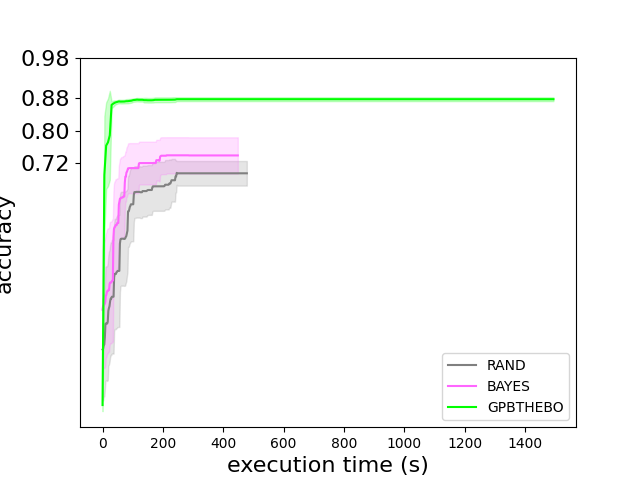
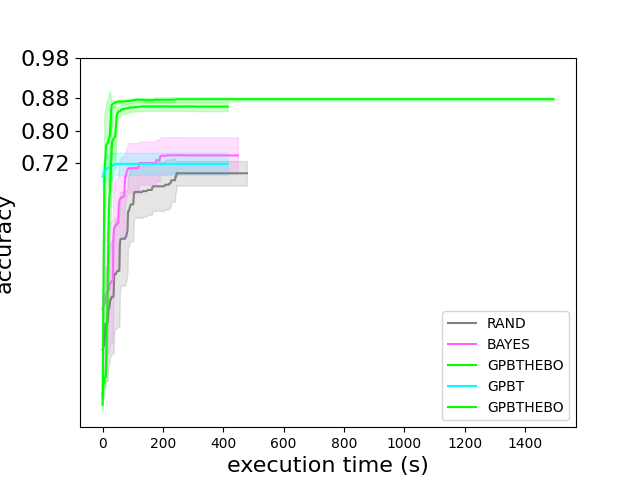
update analytics to process fast runs

Changed region(s): [[0.1562, 0.1875, 0.375, 0.8125], [0.6875, 0.6562, 0.875, 0.8125]]

diff --git a/analytics.py b/analytics.py
@@ -47,37 +47,50 @@ def getall(a):
     return (f, a[:, 1::2].std(1) / 2, g, a[:, 0::2].std(1) / 2)
 
 
-DEFAULT_PATH = "./results"
+def analyse_result_files(algo, model, num_iteration, filepath, val, N):
+    algo_results = []
+    for iteration in range(num_iteration):
+        filename = algo + "_" + model + "_" + str(iteration) + ".csv"
+        filename = os.path.join(filepath, filename)
+        logs = genfromtxt(filename, delimiter=",")
+        test_loss = logs[np.argsort(logs[:, -5], axis=-1, kind="stable")][:, -2:]
+        test_loss = maxof(test_loss[:, ::], N)
+        algo_results.append(test_loss)
+    [mean_test, std_test, mean_val, std_val] = getall(
+        np.concatenate(algo_results, axis=1)
+    )
+    if val:
+        mean, std = mean_val, std_val
+    else:
+        mean, std = mean_test, std_test
+    time = np.arange(0, N) * get_time(algo, (N == 80)) / N
+    label = algo
+    if N == 80:
+        label = algo + "_80"
+    plt.plot(time, mean, color=get_color(algo), label=label)
+    plt.fill_between(time, mean - std, mean + std, alpha=0.2, color=get_color(algo))
 
 
 def process(
-    dataset: str, algos=["RAND"], model="LeNet", num_iteration=10, val=False, N=250
+    dataset: str,
+    algos=["RAND"],
+    fast_algos=[],
+    model="LeNet",
+    num_iteration=10,
+    val=False,
 ):
-
     for algo in algos:
-        algo_results = []
-        for iteration in range(num_iteration):
-            filename = algo + "_" + model + "_" + str(iteration) + ".csv"
-            filename = os.path.join(DEFAULT_PATH, dataset, filename)
-            logs = genfromtxt(filename, delimiter=",")
-            test_loss = logs[np.argsort(logs[:, -5], axis=-1, kind="stable")][:, -2:]
-            test_loss = maxof(test_loss[:, ::], N)
-            algo_results.append(test_loss)
-        [mean_test, std_test, mean_val, std_val] = getall(
-            np.concatenate(algo_results, axis=1)
-        )
-        if val:
-            mean, std = mean_val, std_val
-        else:
-            mean, std = mean_test, std_test
-        time = np.arange(0, 250) * get_time(algo) / 250
-        plt.plot(time, mean, color=get_color(algo), label=algo)
-        plt.fill_between(time, mean - std, mean + std, alpha=0.2, color=get_color(algo))
+        path = os.path.join("./results", dataset)
+        analyse_result_files(algo, model, num_iteration, path, val, 250)
+    for algo in fast_algos:
+        path = os.path.join("./results", dataset, "FAST")
+        analyse_result_files(algo, model, num_iteration, path, val, 80)
+
     axes = plt.gca()
-    axes.set_ylabel("accuracy", fontsize=9)
-    axes.set_xlabel("execution time (s)", fontsize=9)
-    plt.xticks([0, 200, 400, 600, 800, 1000, 1200, 1400], fontsize=9)
-    plt.yticks([0.72, 0.76, 0.80, 0.84, 0.88, 0.92, 0.96, 1], fontsize=9)
+    axes.set_ylabel("accuracy", fontsize=16)
+    axes.set_xlabel("execution time (s)", fontsize=16)
+    # plt.xticks([0, 200, 400], fontsize=16)
+    plt.yticks([0.72, 0.80, 0.88, 0.98], fontsize=16)
     plt.legend()
     if val:
         filename = dataset + "_" + "val.png"
@@ -89,7 +102,7 @@ def process(
 def get_color(algo: str):
     algo_colors = {
         "RAND": (0.5, 0.5, 0.5),
-        "BAYES": (1, 1, 1),
+        "BAYES": (1, 0.4, 1),
         "BOHB": (0, 0, 1),
         "PBT": (1, 1, 0),
         "PB2": (1, 0, 1),
@@ -100,17 +113,17 @@ def get_color(algo: str):
     return algo_colors[algo]
 
 
-def get_time(algo: str, full=True):
-    if full:
+def get_time(algo: str, fast=False):
+    if fast:
         algo_times = {
             "RAND": 480,
             "BAYES": 450,
             "BOHB": 350,
             "PBT": 400,
             "PB2": 405,
-            "GPBT": 1,
+            "GPBT": 420,
             "HEBO": 1,
-            "GPBTHEBO": 1500,
+            "GPBTHEBO": 420,
         }
     else:
         algo_times = {
@@ -119,8 +132,8 @@ def get_time(algo: str, full=True):
             "BOHB": 350,
             "PBT": 400,
             "PB2": 405,
-            "GPBT": 1,
+            "GPBT": 1500,
             "HEBO": 1,
-            "GPBTHEBO": 420,
+            "GPBTHEBO": 1500,
         }
     return algo_times[algo]
